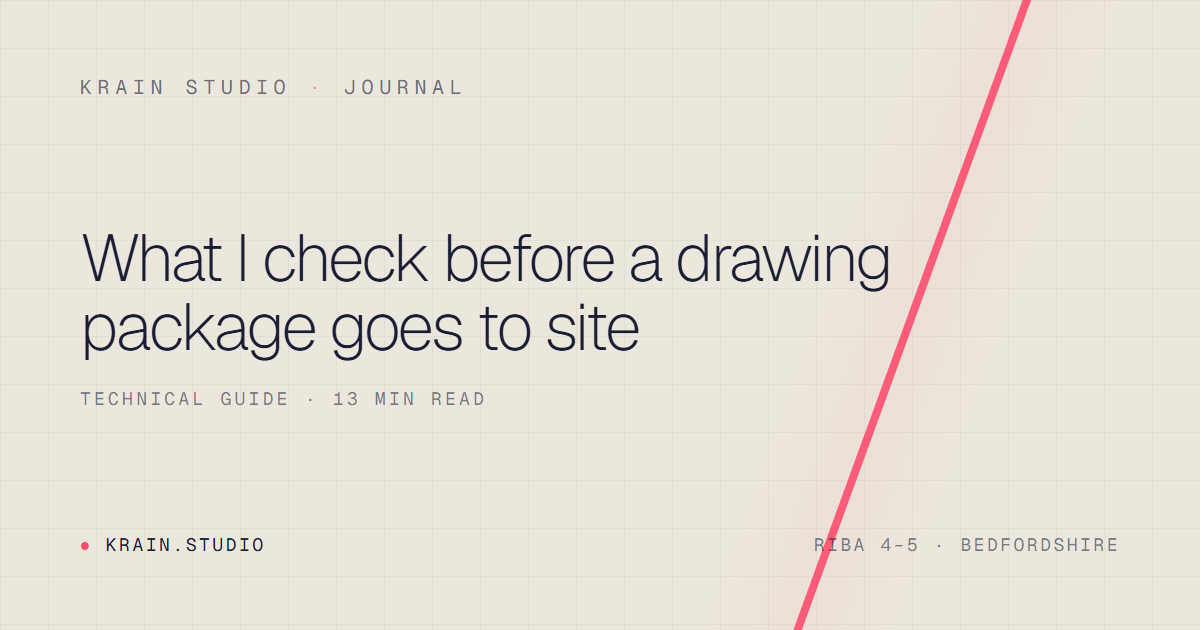
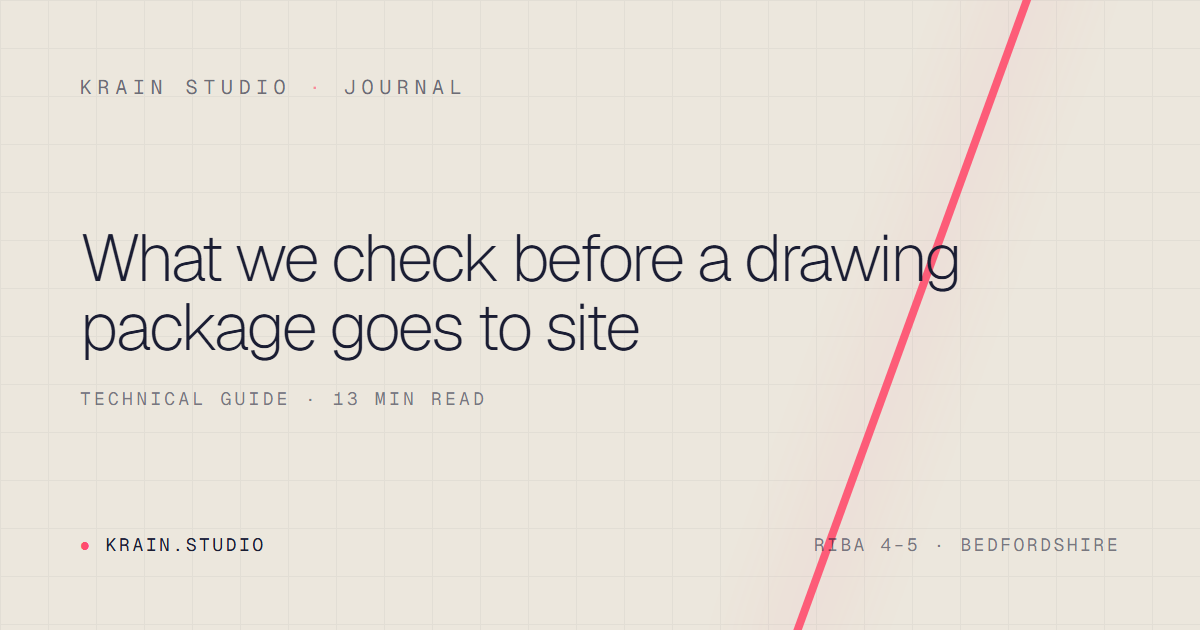
✍ copy: shift site voice from 'I' to 'we' (studio voice)
Convert first-person singular to plural across the marketing copy and the three
first-person journal articles, for a consistent studio voice (the home sections
already used 'we'):
- services / about / contact / 'Who we support'
- journal: what-we-check, register-review, window-and-door posts
- 'What we check…' article title (slug unchanged) + regenerated OG card
Left as-is: the visitor's pre-filled enquiry message in lib/contact.ts ('I've got
a set of plans…') and code identifiers/function names.

Changed region(s): [[0.185, 0.3619, 0.8017, 0.4825]]

diff --git a/components/journal/posts/what-i-check-before-drawings-go-to-site.tsx b/components/journal/posts/what-i-check-before-drawings-go-to-site.tsx
@@ -26,12 +26,12 @@ export function WhatICheckBeforeDrawingsGoToSite() {
       </Figure>
 
       <P>
-        At Krain Studio, my focus is not just producing technical drawings. A large part of the value is{" "}
+        At Krain Studio, our focus is not just producing technical drawings. A large part of the value is{" "}
         <A href="/services#review">reviewing information before it is issued</A>, so the project team has a
         clearer understanding of what is missing, what conflicts, and what needs to be resolved before the
         drawings are relied on by contractors, consultants, clients or site teams.
       </P>
-      <P>This article explains the main things I check before a drawing package goes to site.</P>
+      <P>This article explains the main things we check before a drawing package goes to site.</P>
 
       <Figure caption="The ten checks, at a glance — jump to any section.">
         <TenChecksList />
@@ -40,7 +40,7 @@ export function WhatICheckBeforeDrawingsGoToSite() {
       <H2 id="drawing-register">1. Does the drawing register match the actual files?</H2>
       <P>The first check is simple, but it catches a lot of problems.</P>
       <P>
-        I compare the drawing register against the actual PDF files being issued. The register may say a
+        We compare the drawing register against the actual PDF files being issued. The register may say a
         drawing exists, but the PDF may be missing. A folder may contain extra drawings that are not on
         the register. A drawing may be listed at one revision but the file in the issue folder may be at
         another.
@@ -72,7 +72,7 @@ export function WhatICheckBeforeDrawingsGoToSite() {
         The floor plans, elevations, sections and details should all describe the same building. If one
         drawing has changed but another has not been updated, the package can start to contradict itself.
       </P>
-      <P>I look for mismatches between:</P>
+      <P>We look for mismatches between:</P>
       <Bullets
         items={[
           "floor plans and elevations",
@@ -98,10 +98,10 @@ export function WhatICheckBeforeDrawingsGoToSite() {
       <H2 id="detail-references">3. Are the detail references actually useful?</H2>
       <P>Detail references are only useful if they point to the right information.</P>
       <P>
-        I check whether detail tags, section markers and callouts lead to real drawings and relevant
+        We check whether detail tags, section markers and callouts lead to real drawings and relevant
         details. A drawing may have plenty of references on it, but that does not mean they are correct.
       </P>
-      <P>The questions I ask are:</P>
+      <P>The questions we ask are:</P>
       <Bullets
         items={[
           "does the referenced detail exist?",
@@ -129,7 +129,7 @@ export function WhatICheckBeforeDrawingsGoToSite() {
         of the most common areas for errors.
       </P>
       <P>
-        I check whether every window and door mark shown on plan and elevation is included in the
+        We check whether every window and door mark shown on plan and elevation is included in the
         schedule, and whether the schedule information appears to match the drawing intent.
       </P>
       <P>Common problems include:</P>
@@ -157,10 +157,10 @@ export function WhatICheckBeforeDrawingsGoToSite() {
       <H2 id="dimensions">5. Are dimensions clear enough to build from?</H2>
       <P>Drawings can look neat but still fail to communicate enough dimensional information.</P>
       <P>
-        I review whether key dimensions are present, readable and useful. That does not mean every drawing
+        We review whether key dimensions are present, readable and useful. That does not mean every drawing
         needs to be over-dimensioned. It means the critical setting-out information needs to be clear.
       </P>
-      <P>I look for:</P>
+      <P>We look for:</P>
       <Bullets
         items={[
           "missing overall dimensions",
@@ -188,7 +188,7 @@ export function WhatICheckBeforeDrawingsGoToSite() {
         structure, floor zones, ceiling zones, fire compartmentation, acoustics and vertical riser
         positions.
       </P>
-      <P>I check for obvious risks such as:</P>
+      <P>We check for obvious risks such as:</P>
       <Bullets
         items={[
           "long horizontal drainage runs without clear falls",
@@ -213,7 +213,7 @@ export function WhatICheckBeforeDrawingsGoToSite() {
         Openings, joist directions, steel positions, padstones, foundations, lintels, roof structure and
         floor zones all affect whether the architectural intent can actually be built.
       </P>
-      <P>I check for signs that the structure has not been properly allowed for, including:</P>
+      <P>We check for signs that the structure has not been properly allowed for, including:</P>
       <Bullets
         items={[
           "drainage or services passing through steels",
@@ -238,7 +238,7 @@ export function WhatICheckBeforeDrawingsGoToSite() {
         insulation, access, security, sound or energy performance. These notes need to be coordinated with
         the actual drawn information.
       </P>
-      <P>I look for obvious gaps or contradictions, such as:</P>
+      <P>We look for obvious gaps or contradictions, such as:</P>
       <Bullets
         items={[
           "notes copied from another project",
@@ -267,7 +267,7 @@ export function WhatICheckBeforeDrawingsGoToSite() {
         history. But a contractor, consultant or client may only see the issued drawings. They do not
         always know which assumptions were made or which decisions are still unresolved.
       </P>
-      <P>I ask:</P>
+      <P>We ask:</P>
       <Bullets
         items={[
           "would a new person understand this drawing?",

diff --git a/components/journal/posts/how-to-review-architect-drawing-register.tsx b/components/journal/posts/how-to-review-architect-drawing-register.tsx
@@ -107,7 +107,7 @@ export function HowToReviewArchitectDrawingRegister() {
         If drawing numbers are wrong, duplicated or inconsistent, the project team cannot reliably refer
         to the information.
       </P>
-      <P>I check for:</P>
+      <P>We check for:</P>
       <Bullets
         items={[
           "Duplicate drawing numbers",
@@ -134,7 +134,7 @@ export function HowToReviewArchitectDrawingRegister() {
         A drawing register may say Revision C, the PDF file name may say Revision B, and the title block
         may show Revision D. That kind of mismatch causes confusion very quickly.
       </P>
-      <P>When reviewing revisions, I check:</P>
+      <P>When reviewing revisions, we check:</P>
       <Bullets
         items={[
           "Register revision",
@@ -171,7 +171,7 @@ export function HowToReviewArchitectDrawingRegister() {
         &ldquo;General Arrangement Plan&rdquo;, that may not be a major issue. But if the title is
         misleading, outdated or inconsistent, it can create confusion.
       </P>
-      <P>I check for:</P>
+      <P>We check for:</P>
       <Bullets
         items={[
           "Drawing titles that differ between register and title block",
@@ -194,7 +194,7 @@ export function HowToReviewArchitectDrawingRegister() {
         to make sense. If a drawing appears to have been revised after the issue date, or if key drawings
         are older than the information they refer to, the package may be inconsistent.
       </P>
-      <P>I check for:</P>
+      <P>We check for:</P>
       <Bullets
         items={[
           "Drawings with issue dates that do not match the issue",
@@ -221,7 +221,7 @@ export function HowToReviewArchitectDrawingRegister() {
         drainage layouts but no relevant service or riser details.
       </P>
       <P>
-        Depending on the project, I check whether the register includes the expected drawing types, such
+        Depending on the project, we check whether the register includes the expected drawing types, such
         as:
       </P>
       <Bullets
@@ -258,7 +258,7 @@ export function HowToReviewArchitectDrawingRegister() {
         refer to a window schedule. A door schedule may refer to a plan. A drainage layout may refer to a
         riser detail.
       </P>
-      <P>I look for references such as:</P>
+      <P>We look for references such as:</P>
       <Bullets
         items={[
           "“Refer to drawing...”",
@@ -271,7 +271,7 @@ export function HowToReviewArchitectDrawingRegister() {
           "Specification references",
         ]}
       />
-      <P>Then I ask:</P>
+      <P>Then we ask:</P>
       <Bullets
         items={[
           "Does the referenced drawing exist?",
@@ -295,7 +295,7 @@ export function HowToReviewArchitectDrawingRegister() {
         fixing, but they are different from technical design queries such as drainage coordination, fire
         ratings, structural clashes or buildability risks.
       </P>
-      <P>When reviewing a register, I separate comments into categories:</P>
+      <P>When reviewing a register, we separate comments into categories:</P>
       <Bullets
         items={[
           "Missing from register",

diff --git a/app/services/page.tsx b/app/services/page.tsx
@@ -175,9 +175,9 @@ export default function ServicesPage() {
           construction or site-related issues before they become costly problems.
         </P>
 
-        <H2>What I do</H2>
+        <H2>What we do</H2>
         <P>
-          I can be brought in to produce technical drawings, construction details and working drawing
+          We can be brought in to produce technical drawings, construction details and working drawing
           information, or to review existing architectural drawings where a project team needs greater
           confidence in the information being used.
         </P>
@@ -228,7 +228,7 @@ export default function ServicesPage() {
 
         <H2>Construction detail &amp; site issue support</H2>
         <P>
-          I can also assist with specific technical details or site-related construction issues where
+          We can also assist with specific technical details or site-related construction issues where
           drawings need interpretation, clarification or further technical input.
         </P>
         <P>
@@ -244,23 +244,23 @@ export default function ServicesPage() {
 
         <H2>Confidential project work</H2>
         <P>
-          Much of my work is carried out on live architectural and construction projects where client
+          Much of our work is carried out on live architectural and construction projects where client
           confidentiality, drawing copyright and project information must be protected.
         </P>
         <P>
-          For that reason, I do not publish identifiable client drawings, project locations, title blocks
+          For that reason, we do not publish identifiable client drawings, project locations, title blocks
           or original design material. Any examples shown are anonymised, recreated or representative
           samples used to demonstrate the type of technical work carried out.
         </P>
 
-        <H2>Why bring me in?</H2>
+        <H2>Why bring us in?</H2>
         <P>
-          With over 20 years’ experience across residential, commercial and mixed-use projects, I
+          With over 20 years’ experience across residential, commercial and mixed-use projects, we
           understand how drawings are used by architects, developers, contractors, consultants and site
           teams.
         </P>
         <P>
-          I help teams produce clearer information, find weak points earlier and reduce uncertainty before
+          We help teams produce clearer information, find weak points earlier and reduce uncertainty before
           or during construction.
         </P>
         <Lead>

diff --git a/app/about/page.tsx b/app/about/page.tsx
@@ -45,12 +45,12 @@ export default function AboutPage() {
         </p>
 
         <P>
-          With over 20 years’ experience across residential, commercial and mixed-use projects, I
+          With over 20 years’ experience across residential, commercial and mixed-use projects, we
           understand how drawings are used by architects, developers, contractors, consultants and site
           teams.
         </P>
         <P>
-          I help project teams turn design intent into coordinated, buildable information — producing
+          We help project teams turn design intent into coordinated, buildable information — producing
           clear drawings, reviewing technical information, identifying coordination gaps and helping
           resolve construction or site-related issues before they become costly problems.
         </P>
@@ -63,13 +63,13 @@ export default function AboutPage() {
 
         <H2>Confidential project work</H2>
         <P>
-          Much of my work is carried out on live architectural and construction projects where client
-          confidentiality, drawing copyright and project information must be protected. I do not publish
+          Much of our work is carried out on live architectural and construction projects where client
+          confidentiality, drawing copyright and project information must be protected. We do not publish
           identifiable client drawings, project locations, title blocks or original design material. Any
           examples shown are representative and anonymised.
         </P>
 
-        <H2>Where I’m based</H2>
+        <H2>Where we’re based</H2>
         <P>Based in Biggleswade, Bedfordshire — working with project teams across the UK.</P>
       </article>
       <ContactBand />

diff --git a/lib/journal.ts b/lib/journal.ts
@@ -114,7 +114,7 @@ export const JOURNAL: JournalEntry[] = [
   },
   {
     slug: "what-i-check-before-drawings-go-to-site",
-    title: "What I check before a drawing package goes to site",
+    title: "What we check before a drawing package goes to site",
     date: "Jun 2026",
     dateISO: "2026-06-03",
     publishedISO: "2026-06-03T09:00:00+01:00",
@@ -123,7 +123,7 @@ export const JOURNAL: JournalEntry[] = [
     readingTime: "13 min read",
     excerpt:
       "Before architectural drawings go to site, they need more than a quick visual check. This article explains the key checks behind a proper technical drawing review, from drawing registers and revisions to schedules, drainage, structure and buildability.",
-    metaTitle: "What I Check Before a Drawing Package Goes to Site | Krain Studio",
+    metaTitle: "What We Check Before a Drawing Package Goes to Site | Krain Studio",
     description:
       "A practical guide to architectural drawing review, covering drawing registers, revisions, schedules, detail references, buildability, drainage coordination and site-readiness checks.",
     keywords: [

diff --git a/components/journal/posts/why-window-and-door-schedules-go-wrong.tsx b/components/journal/posts/why-window-and-door-schedules-go-wrong.tsx
@@ -342,7 +342,7 @@ export function WhyWindowDoorSchedulesGoWrong() {
       />
       <P>If only one drawing is updated, the package becomes inconsistent.</P>
       <P>
-        This is why revision discipline is critical. When reviewing a package, I look for signs that a
+        This is why revision discipline is critical. When reviewing a package, we look for signs that a
         change has been carried through the full set rather than corrected in one isolated location.
       </P>
 
@@ -392,7 +392,7 @@ export function WhyWindowDoorSchedulesGoWrong() {
 
       <P>The schedule needs to be checked against the whole drawing package.</P>
       <P>
-        At Krain Studio, I review window and door information as part of{" "}
+        At Krain Studio, we review window and door information as part of{" "}
         <A href="/journal/what-i-check-before-drawings-go-to-site">wider technical drawing audits</A>. The
         aim is to identify missing references, conflicting information, unclear notes, schedule gaps and
         buildability risks before issue, procurement or site use.

diff --git a/app/contact/page.tsx b/app/contact/page.tsx
@@ -36,7 +36,7 @@ export default function ContactPage() {
         </h1>
         <p style={{ fontSize: 18, lineHeight: 1.6, opacity: 0.85, maxWidth: 680, margin: "0 0 40px" }}>
           Send the current PDF/DWG set, drawing register, schedules and a short note on the issue,
-          deadline or package stage. I’ll come back with a clear view of what’s involved.
+          deadline or package stage. We’ll come back with a clear view of what’s involved.
         </p>
 
         <div style={{ display: "flex", gap: 18, alignItems: "center", flexWrap: "wrap", marginBottom: 56 }}>

diff --git a/components/home/WhoIHelp.tsx b/components/home/WhoIHelp.tsx
@@ -24,7 +24,7 @@ export function WhoIHelp() {
           marginBottom: 24,
         }}
       >
-        Who I support
+        Who we support
       </div>
       <h2
         style={{
@@ -35,7 +35,7 @@ export function WhoIHelp() {
           margin: "0 0 48px",
         }}
       >
-        I support
+        We support
       </h2>
 
       <div
